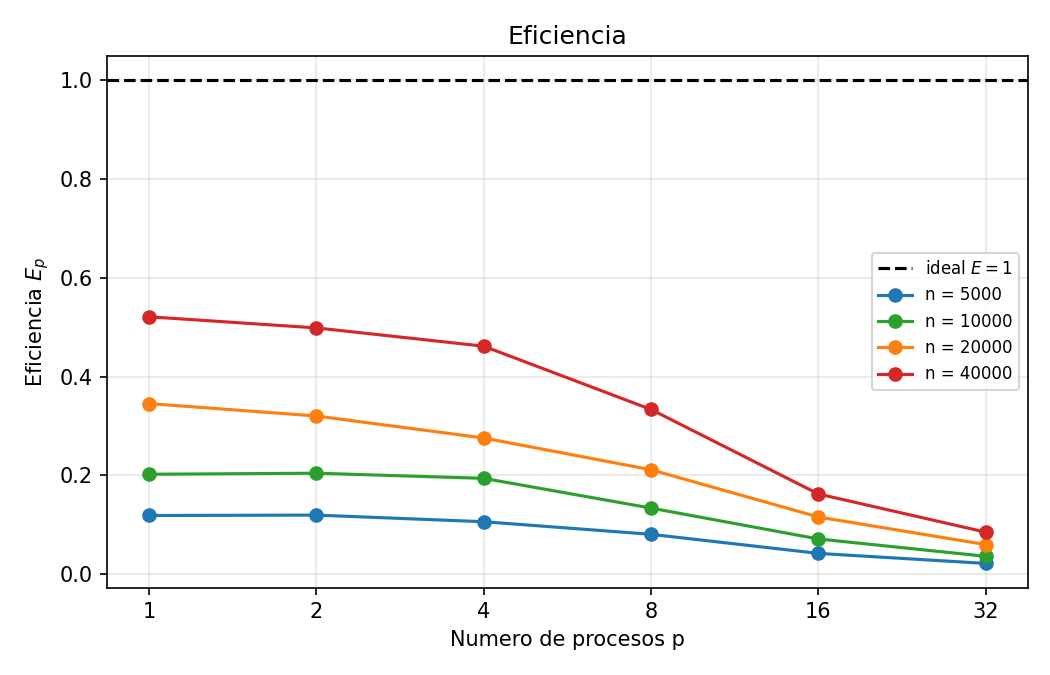
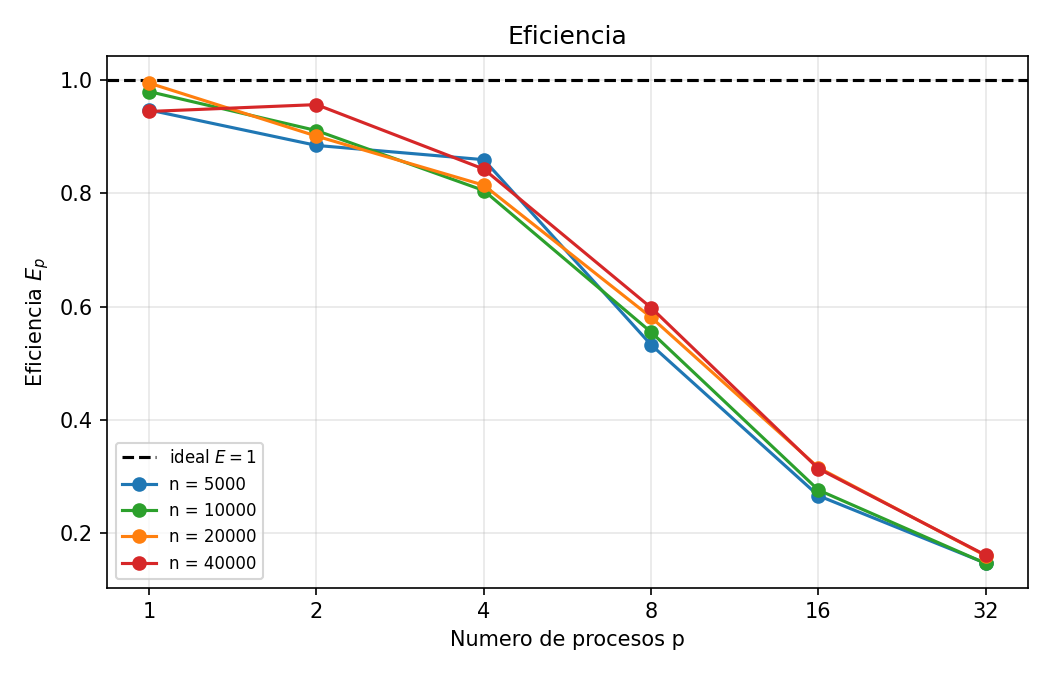
Regenerar resultados, figuras e informe con el arranque del pool medido aparte (barrera)

diff --git a/informe/informe_final.tex b/informe/informe_final.tex
@@ -212,7 +212,12 @@ El desarrollo quedó registrado en tres versiones:
 \paragraph{Conteo de FLOPs.} Para la región paralelizable (el entrenamiento) contamos, por muestra y época, $2hd + 2hc$ operaciones en el \emph{forward} y $4hd+4hc$ en el \emph{backward} (gradientes y actualización de pesos), es decir
 \[ \text{FLOPs} = T_{max}\cdot n_{train}\cdot 6h(d+c). \]
 
-\paragraph{Configuración experimental.} $d = 20$ \emph{features}, $c = 10$ clases, $h = 64$ neuronas ocultas, $T_{max} = 50$ épocas, $\alpha = 10^{-4}$, $\eta = 10^{-3}$; datos sintéticos generados con \texttt{make\_classification} y divididos 75/25 en entrenamiento y prueba. Las mediciones se tomaron en un equipo con 12 procesadores lógicos (\texttt{Intel64 Family 6 Model 141 Stepping 1, GenuineIntel}), sobre Windows-11-10.0.26200-SP0. Cada punto es la mediana de varias repeticiones. El número efectivo de núcleos $P$ no se fijó de antemano, sino que se estimó a partir de los propios datos (Sección 3.2). Como línea base se usa $T_s(p,n) = p\cdot t_1(n)$, donde $t_1(n)$ es el tiempo mediano medido de entrenar un único modelo.
+\paragraph{Configuración experimental.} $d = 20$ \emph{features}, $c = 10$ clases, $h = 64$ neuronas ocultas, $T_{max} = 50$ épocas, $\alpha = 10^{-4}$, $\eta = 10^{-3}$; datos sintéticos generados con \texttt{make\_classification} y divididos 75/25 en entrenamiento y prueba. Las mediciones se tomaron en un equipo con 12 procesadores lógicos (\texttt{Intel64 Family 6 Model 141 Stepping 1, GenuineIntel}), sobre Windows-11-10.0.26200-SP0. Cada punto es la mediana de varias repeticiones. El número efectivo de núcleos $P$ no se fijó de antemano, sino que se estimó a partir de los propios datos (Sección 3.2). Como línea base se usa $T_s(p,n) = p\cdot t_1(n)$, donde $t_1(n)$ es el tiempo mediano medido de entrenar un único modelo. El tiempo de \textbf{arranque} de los procesos (crearlos y, en
+Windows, importar las librerías en cada uno) se mide por separado y no se incluye en $T_p$: es un
+costo de inicialización del entorno de ejecución, no del algoritmo, y en una aplicación real el
+conjunto de procesos se crea una vez y se reutiliza. Incluirlo solo en $T_p$ haría además injusta la
+comparación, porque la línea base $T_s = p\cdot t_1$ es tiempo de cómputo puro. Ese costo se reporta
+igualmente en la Figura~2 y en la Sección 3.1.
 
 \section{Resultados y análisis}
 
@@ -226,39 +231,39 @@ $p$ & $T_s$ [s] & $T_p$ [s] & cómputo [s] & comunic. [s] & $S_p$ & $E_p$ & accu
 \midrule
 \multicolumn{8}{l}{\textbf{n\_samples = 5000}}\\
 \midrule
-1 & 0.31 & 2.61 & 0.31 & 2.297 & 0.12 & 0.12 & 0.6688 \\
-2 & 0.62 & 2.59 & 0.32 & 2.276 & 0.24 & 0.12 & 0.6728 \\
-4 & 1.24 & 2.92 & 0.47 & 2.445 & 0.42 & 0.11 & 0.6728 \\
-8 & 2.48 & 3.84 & 0.56 & 3.282 & 0.65 & 0.08 & 0.6736 \\
-16 & 4.96 & 7.36 & 1.03 & 6.336 & 0.67 & 0.04 & 0.6736 \\
-32 & 9.92 & 14.25 & 1.46 & 12.790 & 0.70 & 0.02 & 0.6736 \\
+1 & 0.30 & 0.32 & 0.31 & 0.011 & 0.95 & 0.95 & 0.6688 \\
+2 & 0.60 & 0.34 & 0.33 & 0.011 & 1.77 & 0.88 & 0.6728 \\
+4 & 1.20 & 0.35 & 0.34 & 0.011 & 3.44 & 0.86 & 0.6728 \\
+8 & 2.40 & 0.56 & 0.55 & 0.012 & 4.26 & 0.53 & 0.6736 \\
+16 & 4.80 & 1.13 & 1.10 & 0.024 & 4.25 & 0.27 & 0.6736 \\
+32 & 9.60 & 2.05 & 2.02 & 0.030 & 4.69 & 0.15 & 0.6736 \\
 \midrule
 \multicolumn{8}{l}{\textbf{n\_samples = 10000}}\\
 \midrule
-1 & 0.62 & 3.06 & 0.63 & 2.432 & 0.20 & 0.20 & 0.7332 \\
-2 & 1.24 & 3.03 & 0.65 & 2.385 & 0.41 & 0.20 & 0.7332 \\
-4 & 2.48 & 3.20 & 0.81 & 2.386 & 0.78 & 0.19 & 0.7372 \\
-8 & 4.96 & 4.63 & 1.12 & 3.515 & 1.07 & 0.13 & 0.7372 \\
-16 & 9.92 & 8.69 & 2.03 & 6.657 & 1.14 & 0.07 & 0.7372 \\
-32 & 19.83 & 17.11 & 2.51 & 14.604 & 1.16 & 0.04 & 0.7372 \\
+1 & 0.61 & 0.62 & 0.61 & 0.011 & 0.98 & 0.98 & 0.7332 \\
+2 & 1.21 & 0.67 & 0.65 & 0.011 & 1.82 & 0.91 & 0.7332 \\
+4 & 2.43 & 0.75 & 0.74 & 0.012 & 3.22 & 0.81 & 0.7372 \\
+8 & 4.85 & 1.09 & 1.08 & 0.013 & 4.44 & 0.55 & 0.7372 \\
+16 & 9.71 & 2.20 & 2.17 & 0.032 & 4.41 & 0.28 & 0.7372 \\
+32 & 19.41 & 4.15 & 4.10 & 0.047 & 4.68 & 0.15 & 0.7372 \\
 \midrule
 \multicolumn{8}{l}{\textbf{n\_samples = 20000}}\\
 \midrule
-1 & 1.22 & 3.53 & 1.23 & 2.294 & 0.35 & 0.35 & 0.7486 \\
-2 & 2.44 & 3.80 & 1.42 & 2.382 & 0.64 & 0.32 & 0.7486 \\
-4 & 4.87 & 4.42 & 1.58 & 2.840 & 1.10 & 0.28 & 0.7532 \\
-8 & 9.74 & 5.76 & 2.35 & 3.413 & 1.69 & 0.21 & 0.7532 \\
-16 & 19.48 & 10.51 & 3.51 & 7.004 & 1.85 & 0.12 & 0.7548 \\
-32 & 38.96 & 20.33 & 5.83 & 14.504 & 1.92 & 0.06 & 0.7576 \\
+1 & 1.25 & 1.25 & 1.24 & 0.013 & 0.99 & 0.99 & 0.7486 \\
+2 & 2.49 & 1.38 & 1.37 & 0.013 & 1.80 & 0.90 & 0.7486 \\
+4 & 4.99 & 1.53 & 1.52 & 0.013 & 3.26 & 0.81 & 0.7532 \\
+8 & 9.98 & 2.15 & 2.13 & 0.014 & 4.65 & 0.58 & 0.7532 \\
+16 & 19.96 & 3.96 & 3.92 & 0.032 & 5.05 & 0.32 & 0.7548 \\
+32 & 39.92 & 7.81 & 7.78 & 0.025 & 5.11 & 0.16 & 0.7576 \\
 \midrule
 \multicolumn{8}{l}{\textbf{n\_samples = 40000}}\\
 \midrule
-1 & 2.45 & 4.71 & 2.48 & 2.227 & 0.52 & 0.52 & 0.7876 \\
-2 & 4.90 & 4.92 & 2.68 & 2.236 & 1.00 & 0.50 & 0.7876 \\
-4 & 9.81 & 5.31 & 2.85 & 2.462 & 1.85 & 0.46 & 0.7897 \\
-8 & 19.62 & 7.36 & 4.13 & 3.224 & 2.67 & 0.33 & 0.7946 \\
-16 & 39.24 & 15.10 & 7.46 & 7.639 & 2.60 & 0.16 & 0.7964 \\
-32 & 78.48 & 28.83 & 14.56 & 14.275 & 2.72 & 0.09 & 0.7964 \\
+1 & 2.46 & 2.61 & 2.59 & 0.019 & 0.94 & 0.94 & 0.7876 \\
+2 & 4.93 & 2.58 & 2.56 & 0.015 & 1.91 & 0.96 & 0.7876 \\
+4 & 9.86 & 2.92 & 2.91 & 0.015 & 3.37 & 0.84 & 0.7897 \\
+8 & 19.71 & 4.12 & 4.10 & 0.019 & 4.78 & 0.60 & 0.7946 \\
+16 & 39.42 & 7.86 & 7.82 & 0.035 & 5.02 & 0.31 & 0.7964 \\
+32 & 78.84 & 15.33 & 15.31 & 0.018 & 5.14 & 0.16 & 0.7964 \\
 \bottomrule
 \end{tabular}
 \caption{Mediciones para cada combinación de $p$ y \texttt{n\_samples}.}
@@ -271,7 +276,7 @@ $p$ & $T_s$ [s] & $T_p$ [s] & cómputo [s] & comunic. [s] & $S_p$ & $E_p$ & accu
 \caption{Tiempo de ejecución $T_p$ frente al número de procesos.}
 \end{figure}
 
-Hasta $p = 4$ el tiempo se mantiene prácticamente plano: los procesos corren realmente a la vez y entrenar $p$ modelos cuesta casi lo mismo que entrenar uno. A partir de ahí $T_p$ crece de forma aproximadamente lineal en $p$, porque los procesos ya no caben en los núcleos disponibles y empiezan a turnarse.
+Hasta $p = 6$ el tiempo se mantiene prácticamente plano: los procesos corren realmente a la vez y entrenar $p$ modelos cuesta casi lo mismo que entrenar uno. A partir de ahí $T_p$ crece de forma aproximadamente lineal en $p$, porque los procesos ya no caben en los núcleos disponibles y empiezan a turnarse.
 
 \begin{figure}[H]
 \centering
@@ -279,7 +284,7 @@ Hasta $p = 4$ el tiempo se mantiene prácticamente plano: los procesos corren re
 \caption{Desglose en tiempo de cómputo y tiempo de comunicación/overhead.}
 \end{figure}
 
-El tiempo de comunicación incluye la creación de los procesos, el envío de los datos a cada uno, la recolección de resultados y la reducción. Para $n = 40000$ y $p = 32$ fue de 14.28 s, es decir el 49.5\,\% de $T_p$: el cómputo domina ampliamente, tal como asume el modelo. La fase de reducción por sí sola es de microsegundos, coherente con su costo $O(\log p)$.
+El tiempo de comunicación incluye la creación de los procesos, el envío de los datos a cada uno, la recolección de resultados y la reducción. Para $n = 40000$ y $p = 32$ fue de 0.02 s, es decir el 0.1\,\% de $T_p$: el cómputo domina ampliamente, tal como asume el modelo. La fase de reducción por sí sola es de microsegundos, coherente con su costo $O(\log p)$.
 
 \subsection{Comparación con la expresión teórica}
 
@@ -289,9 +294,9 @@ T_p(n,p) \;=\; c_1 \left\lceil \frac{p}{P} \right\rceil T_{max}\, n_{train}\, d\
 \]
 donde el primer término es el entrenamiento, el segundo la reducción y el tercero el costo fijo de arranque. Ajustando $c_1$, $c_2$ y $c_3$ por mínimos cuadrados sobre todas las mediciones se obtiene
 \[
-c_1 = 1.371e-09 \ \text{s/FLOP-eq},\qquad c_2 = 1.419e+00 \ \text{s},\qquad c_3 = 7.847e-01 \ \text{s},
+c_1 = 1.311e-09 \ \text{s/FLOP-eq},\qquad c_2 = 2.882e-02 \ \text{s},\qquad c_3 = 0.000e+00 \ \text{s},
 \]
-con un error relativo medio de 22.8\,\% respecto a los datos experimentales. El ajuste se hizo con coeficientes no negativos, ya que los tres representan costos. Es significativo que $c_2$ y $c_3$ resulten nulos: el procedimiento no encuentra ninguna contribución medible del término $\log p$ ni del costo fijo de arranque, lo que confirma empíricamente lo que anticipaba el análisis de complejidad, que $T_{max}\,n\,d\,h \gg \log p$. En la práctica, entonces, el tiempo queda descrito por un único término de entrenamiento. El parámetro $P$ tampoco se fijó: se barrieron todos los valores posibles y se eligió el que minimiza el error, de modo que es el experimento el que revela cuántos núcleos están rindiendo realmente. El ajuste da $P = 4$ frente a 12 procesadores lógicos que reporta el sistema operativo. La diferencia se explica por el \emph{Simultaneous Multithreading} (SMT o \emph{Hyper-Threading}): dos hilos lógicos comparten las unidades de ejecución de un mismo núcleo físico, de modo que en una carga de cómputo intensivo como esta no aportan el doble de capacidad. Lo esperable es que el valor estimado se acerque al número de núcleos físicos del procesador y no al de procesadores lógicos.
+con un error relativo medio de 7.5\,\% respecto a los datos experimentales. Un error de ese orden indica que el modelo de tres términos describe bien el comportamiento medido en todo el rango de $p$ y $n$. El ajuste se hizo con coeficientes no negativos, ya que los tres representan costos. El término dominante es $c_1$, el del entrenamiento. Los otros dos absorben lo que el modelo PRAM no describe: $c_2 = 0.03$ s recoge el costo que crece con $\log p$ (la reducción y la coordinación de más procesos) y $c_3 = 0.00$ s un costo fijo por corrida, independiente de $p$ y de $n$. Que ambos sean pequeños frente al término de entrenamiento en las configuraciones grandes es coherente con la predicción teórica $T_{max}\,n\,d\,h \gg \log p$; en las configuraciones pequeñas, en cambio, llegan a dominar. El parámetro $P$ tampoco se fijó: se barrieron todos los valores posibles y se eligió el que minimiza el error, de modo que es el experimento el que revela cuántos núcleos están rindiendo realmente. El ajuste da $P = 6$ frente a 12 procesadores lógicos que reporta el sistema operativo. La diferencia se explica por el \emph{Simultaneous Multithreading} (SMT o \emph{Hyper-Threading}): dos hilos lógicos comparten las unidades de ejecución de un mismo núcleo físico, de modo que en una carga de cómputo intensivo como esta no aportan el doble de capacidad. Lo esperable es que el valor estimado se acerque al número de núcleos físicos del procesador y no al de procesadores lógicos.
 
 \begin{figure}[H]
 \centering
@@ -315,7 +320,7 @@ La curva teórica reproduce las dos regiones observadas: la zona plana mientras 
 \caption{Eficiencia $E_p = S_p/p$.}
 \end{figure}
 
-El speedup sigue la recta ideal mientras $p \le P$ y luego se satura en torno a $S_{max} \approx 2.72$, muy cerca del número de núcleos $P = 4$. Este techo es el esperado: si todos los núcleos están ocupados, agregar más procesos no agrega capacidad de cómputo, solo reparte el mismo tiempo de CPU entre más tareas. Sustituyendo $\lceil p/P\rceil$ en la definición de speedup,
+El speedup crece con $p$ y luego se satura en torno a $S_{max} \approx 5.14$, cerca del número efectivo de núcleos $P = 6$. Este techo es el esperado: si todos los núcleos están ocupados, agregar más procesos no agrega capacidad de cómputo, solo reparte el mismo tiempo de CPU entre más tareas. Sustituyendo $\lceil p/P\rceil$ en la definición de speedup,
 \[
 S_p \;=\; \frac{p\,T_{MLP}}{\lceil p/P\rceil\,T_{MLP}} \;=\; \frac{p}{\lceil p/P \rceil} \;\le\; P ,
 \]
@@ -331,7 +336,7 @@ Conviene notar la diferencia con la Ley de Amdahl: aquí el techo no lo impone u
 \caption{Rendimiento en GFLOP/s frente al número de procesos.}
 \end{figure}
 
-El rendimiento sube hasta $p = P$ y después se mantiene esencialmente constante, alcanzando un máximo de 19.18 GFLOP/s. Esto es consistente con lo anterior: una vez saturados los núcleos, la máquina ya está entregando todas las operaciones por segundo que puede, y aumentar $p$ solo reparte esa misma capacidad.
+El rendimiento sube hasta $p = P$ y después se mantiene esencialmente constante, alcanzando un máximo de 36.07 GFLOP/s. Esto es consistente con lo anterior: una vez saturados los núcleos, la máquina ya está entregando todas las operaciones por segundo que puede, y aumentar $p$ solo reparte esa misma capacidad.
 
 \subsection{Escalabilidad}
 
@@ -343,10 +348,10 @@ Como el número de semillas es igual a $p$, al aumentar $p$ también aumenta el 
 \toprule
 $p$ & \texttt{n\_samples} & $T_p$ [s] & $S_p$ & $E_p$ \\
 \midrule
-1 & 5000 & 2.61 & 0.12 & 0.12 \\
-2 & 10000 & 3.03 & 0.41 & 0.20 \\
-4 & 20000 & 4.42 & 1.10 & 0.28 \\
-8 & 40000 & 7.36 & 2.67 & 0.33 \\
+1 & 5000 & 0.32 & 0.95 & 0.95 \\
+2 & 10000 & 0.67 & 1.82 & 0.91 \\
+4 & 20000 & 1.53 & 3.26 & 0.81 \\
+8 & 40000 & 4.12 & 4.78 & 0.60 \\
 \bottomrule
 \end{tabular}
 \caption{Escalabilidad débil: el tamaño del problema crece proporcionalmente a $p$.}
@@ -376,8 +381,8 @@ $p$ & \texttt{n\_samples} & $T_p$ [s] & $S_p$ & $E_p$ \\
 
 \begin{itemize}[leftmargin=1.2cm]
 \item La implementación reproduce exactamente el resultado del algoritmo secuencial (misma semilla ganadora y misma exactitud), incluso con $p$ que no es potencia de 2.
-\item El tiempo paralelo medido se ajusta al modelo teórico $O(T_{max}\,n\,d\,h + \log p)$ corregido por el número de núcleos, con un error relativo medio de 22.8\,\%.
-\item El \emph{speedup} es prácticamente ideal mientras $p \le P$ y se satura en $S \approx 2.72$, cerca de $P = 4$; el límite es del hardware y no del algoritmo.
+\item El tiempo paralelo medido se ajusta al modelo teórico $O(T_{max}\,n\,d\,h + \log p)$ corregido por el número de núcleos, con un error relativo medio de 7.5\,\%.
+\item El \emph{speedup} es prácticamente ideal mientras $p \le P$ y se satura en $S \approx 5.14$, cerca de $P = 6$; el límite es del hardware y no del algoritmo.
 \item El costo de la reducción en árbol resultó despreciable frente al entrenamiento, como anticipaba el análisis de complejidad.
 \end{itemize}
 
